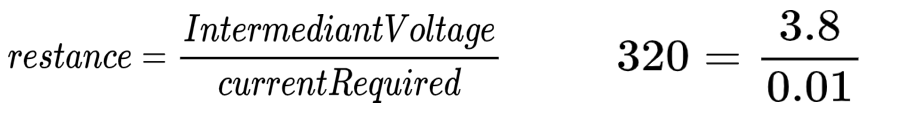
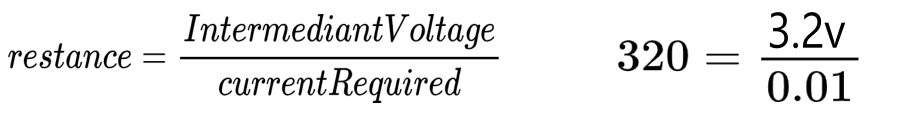
adding the "finished" arduino's buyers guide (#3)
* adding spreadsheet

* Hot fix Math image fixed.

* more info

* finishing the buyer page

* adding byers guide

Changed region(s): [[0.84, 0.0796, 0.9644, 0.4248]]

diff --git a/arduinobuyersgide.md b/arduinobuyersgide.md
@@ -1,0 +1,36 @@
+# Arduino Buyers Guide
+  
+
+This is a guide on all the different Arduino's
+ 
+ The Arduino uno is the most common Arduino because it has a normal amount of IO. Also there is no need to solder.
+
+ The Leonardo is almost like the uno but can be used as a hid device you can use it as a game pad or such.
+
+ The Mega 2560 is a uno with more IO can be use full is you need a lot of leds and such but be mindful that you could have so much code that you cant use all of it.
+
+ The Micro is good to use on a breadboard and is compact this has the same chip as the leonardo.
+
+The Due also has a lot of IO has more memory than the Mega 2560.
+
+The nano has the same chip as the uno so can be used in a final product if a uno worked just in a smaller package.
+
+| Name                        | UNO        | Leonardo   | Mega 2560  | Micro      | Due         | nano      |
+| --------------------------- | ---------- | ---------- | ---------- | ---------- | ----------- | --------- |
+| MICROCONTROLLER             | ATmega328P | ATmega32u4 | ATmega2560 | ATmega32U4 | AT91SAM3X8E | ATmega328 |
+| OPERATING VOLTAGE           | 5V         | 5V         | 5V         | 5V         | 3.3V        | 5 V       |
+| INPUT VOLTAGE (RECOMMENDED) | 7-12V      | 7-12V      | 7-12V      | 7-12V      | 7-12V       | 7-12V     |
+| INPUT VOLTAGE (LIMIT)       | 6-20V      | 6-20V      | 6-20V      | N/A        | 6-16V       | 8         |
+| DIGITAL I/O PINS            | 14         | 20         | 54         | 20         | 54          | 22        |
+| PWM DIGITAL I/O PINS        | 6          | 7          | 16         | 7          | N/A         | 6         |
+| ANALOG INPUT PINS           | 6          | 12         | N/A        | 12         | 12          | N/A       |
+| DC CURRENT PER I/O PIN      | 20 mA      | 40 mA      | 20 mA      | 20 mA      | 2 (DAC)     | 40 mA     |
+| DC CURRENT FOR 3.3V PIN     | 50 mA      | 50 mA      | 50 mA      | 50 mA      | 130 mA      | N/A       |
+| FLASH MEMORY                | 32 KB      | 32 KB      | 256 KB     | 32 KB      | 800 mA      | N/A       |
+| SRAM                        | 2 KB       | 2.5 KB     | 8 KB       | 2.5 KB     | 800 mA      | 32 KB     |
+| EEPROM                      | 1 KB       | 1 KB       | 4 KB       | 1 KB       | 512 KB      | 2 KB      |
+| CLOCK SPEED                 | 16 MHz     | 16 MHz     | 16 MHz     | 16 MHz     | 96 KB       | 16 MHz    |
+| LED\_BUILTIN                | 13         | N/A        | 13         | 13         | 84 MHz      | 1 KB      |
+| LENGTH                      | 68.6 mm    | 68.6 mm    | 101.52 mm  | 48 mm      | 101.52 mm   | 18 mm     |
+| WIDTH                       | 53.4 mm    | 53.3 mm    | 53.3 mm    | 18 mm      | 53.3 mm     | 45 mm     |
+| WEIGHT                      | 25 g       | 20 g       | 37 g       | 13 g       | 36 g        | 7 g       |

diff --git a/README.md b/README.md
@@ -5,4 +5,6 @@ Welcome to the open source wiki for the arduino discord server. Here you can fin
 
 [LEDs and Resistors](ledResistors.md)
 
+[Arduino buyers gide](arduinobuyersgide.md)
+
 ...
